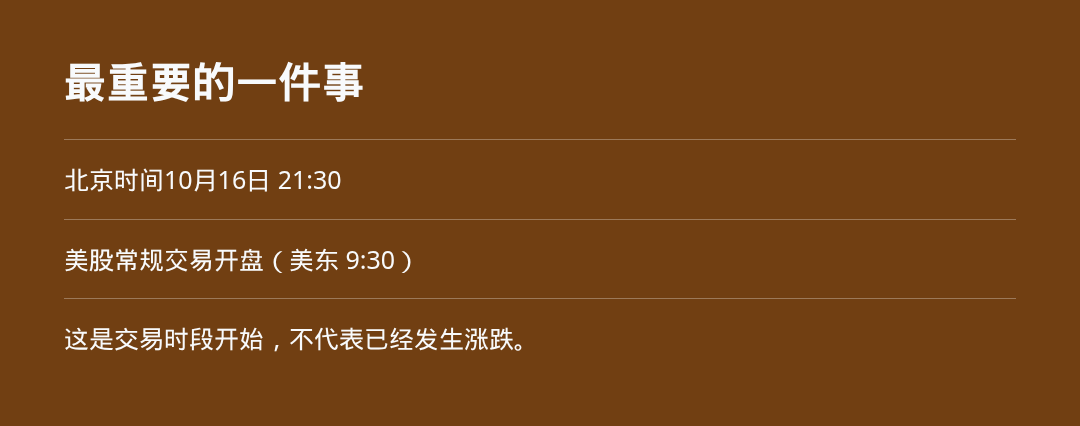
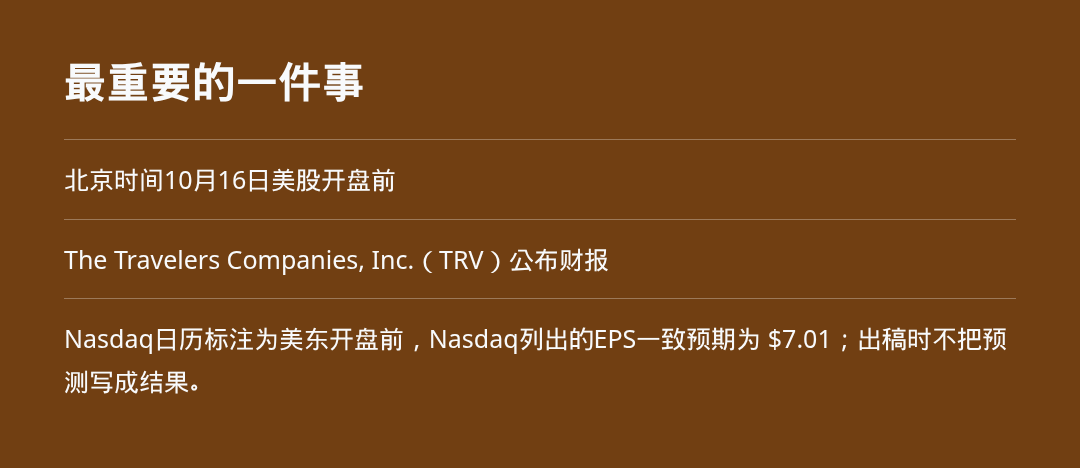
Add daily digest 2026-10-16

diff --git a/2026-10-16/发布.md b/2026-10-16/发布.md
@@ -1,24 +1,29 @@
 ---
-title: 10月16日美股日程前瞻：21:30开盘、次日收盘
+title: 10月16日The Travelers Companies, Inc.财报预告：10月16日美股开盘前
 cover: ./封面.png
 need_open_comment: 1
 only_fans_can_comment: 0
 ---
 
-接下来先看美股开盘。同一窗口还要看美股收盘前后的已排定日程。出稿时没有核对到大型科技公司财报，黄金和比特币只作利率敏感资产提示。
+接下来先看The Travelers Companies, Inc.（TRV）财报。同一窗口还有美股开盘和收盘。相关时间会碰到科技股、利率预期、黄金和比特币，但出稿时没有结果。
 
-> 北京时间10月16日 21:30，美股常规交易开盘（美东 9:30）。这是出稿时已经核对、但尚未发生的事项。
+> 北京时间10月16日美股开盘前，The Travelers Companies, Inc.（TRV）公布财报。这是出稿时已经核对、但尚未发生的事项。
 
 ## 时间表
 
 - 北京时间10月16日 21:30：**美股常规交易开盘（美东 9:30）**。这是交易时段开始，不代表已经发生涨跌。
 - 北京时间次日 04:00：**美股常规交易收盘（美东 16:00）**。出稿时尚未发生，只写成将要收盘。
+- 北京时间10月16日美股开盘前：**The Travelers Companies, Inc.（TRV）公布财报**。Nasdaq日历标注为美东开盘前，Nasdaq列出的EPS一致预期为 $7.01；出稿时不把预测写成结果。
+- 北京时间10月16日美股开盘前：**Truist Financial Corporation（TFC）公布财报**。Nasdaq日历标注为美东开盘前，Nasdaq列出的EPS一致预期为 $1.17；出稿时不把预测写成结果。
+- 北京时间10月16日美股开盘前：**M&T Bank Corporation（MTB）公布财报**。Nasdaq日历标注为美东开盘前，Nasdaq列出的EPS一致预期为 $4.98；出稿时不把预测写成结果。
+- 北京时间10月16日美股开盘前：**Citizens Financial Group, Inc.（CFG）公布财报**。Nasdaq日历标注为美东开盘前，Nasdaq列出的EPS一致预期为 $1.38；出稿时不把预测写成结果。
+- 北京时间10月16日美股开盘前：**Regions Financial Corporation（RF）公布财报**。Nasdaq日历标注为美东开盘前，Nasdaq列出的EPS一致预期为 $0.67；出稿时不把预测写成结果。
 
 ![这一天的时间表](./图1.png)
 
 ## 最重要的一件事
 
-北京时间10月16日 21:30，**美股常规交易开盘（美东 9:30）**。这是交易时段开始，不代表已经发生涨跌。公司自己的宣传数字如果后续出现，必须等原始发布后再核对；出稿时不把预测写成结果。
+北京时间10月16日美股开盘前，**The Travelers Companies, Inc.（TRV）公布财报**。Nasdaq日历标注为美东开盘前，Nasdaq列出的EPS一致预期为 $7.01；出稿时不把预测写成结果。公司自己的宣传数字如果后续出现，必须等原始发布后再核对；出稿时不把预测写成结果。
 
 ![最重要事件](./图2.png)
 
@@ -28,12 +33,16 @@ only_fans_can_comment: 0
 
 ## 会碰到的公司
 
-- 这一天没有其他已核对的大型科技财报。
+- **The Travelers Companies, Inc.（TRV）**：财报时间已由 Nasdaq 日历列出，影响要等事件发生后才能判断。
+- **Truist Financial Corporation（TFC）**：财报时间已由 Nasdaq 日历列出，影响要等事件发生后才能判断。
+- **M&T Bank Corporation（MTB）**：财报时间已由 Nasdaq 日历列出，影响要等事件发生后才能判断。
+- **Citizens Financial Group, Inc.（CFG）**：财报时间已由 Nasdaq 日历列出，影响要等事件发生后才能判断。
+- **Regions Financial Corporation（RF）**：财报时间已由 Nasdaq 日历列出，影响要等事件发生后才能判断。
 
 ![会碰到的公司](./图3.png)
 
 ## 来源
 
-来源：[纽约证券交易所交易时段说明](https://www.nyse.com/markets/hours-calendars)、[美联储 FOMC 日历](https://www.federalreserve.gov/monetarypolicy/fomccalendars.htm)。本文写的是尚未发生的日程。
+来源：[纽约证券交易所交易时段说明](https://www.nyse.com/markets/hours-calendars)、[Nasdaq Earnings Calendar](https://api.nasdaq.com/api/calendar/earnings?date=2026-10-16)、[美联储 FOMC 日历](https://www.federalreserve.gov/monetarypolicy/fomccalendars.htm)。本文写的是尚未发生的日程。
 
 本文为公开资讯整理，不构成投资建议。
